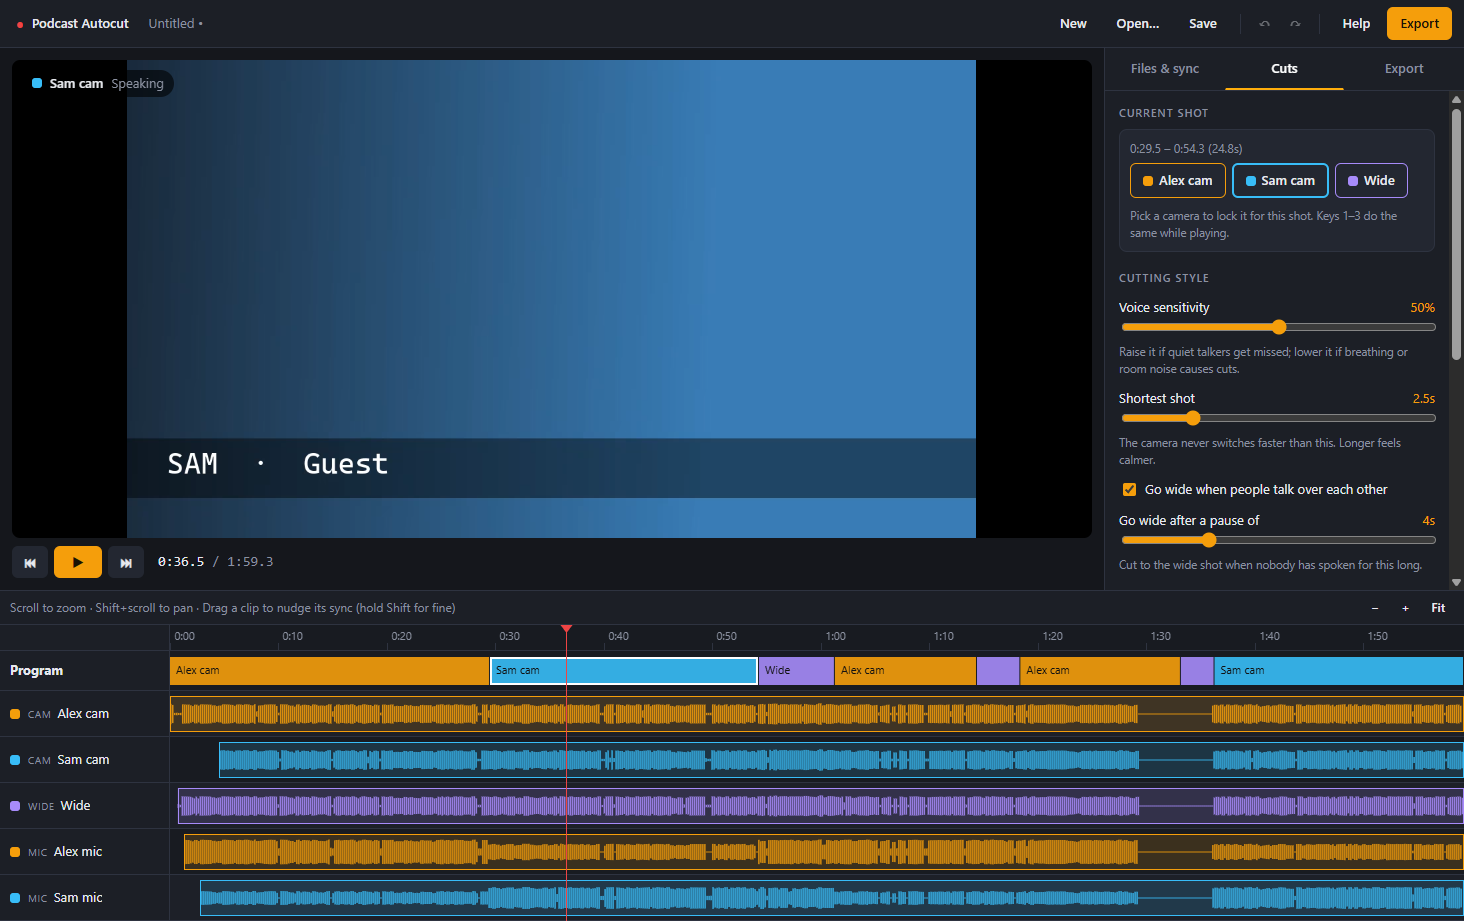
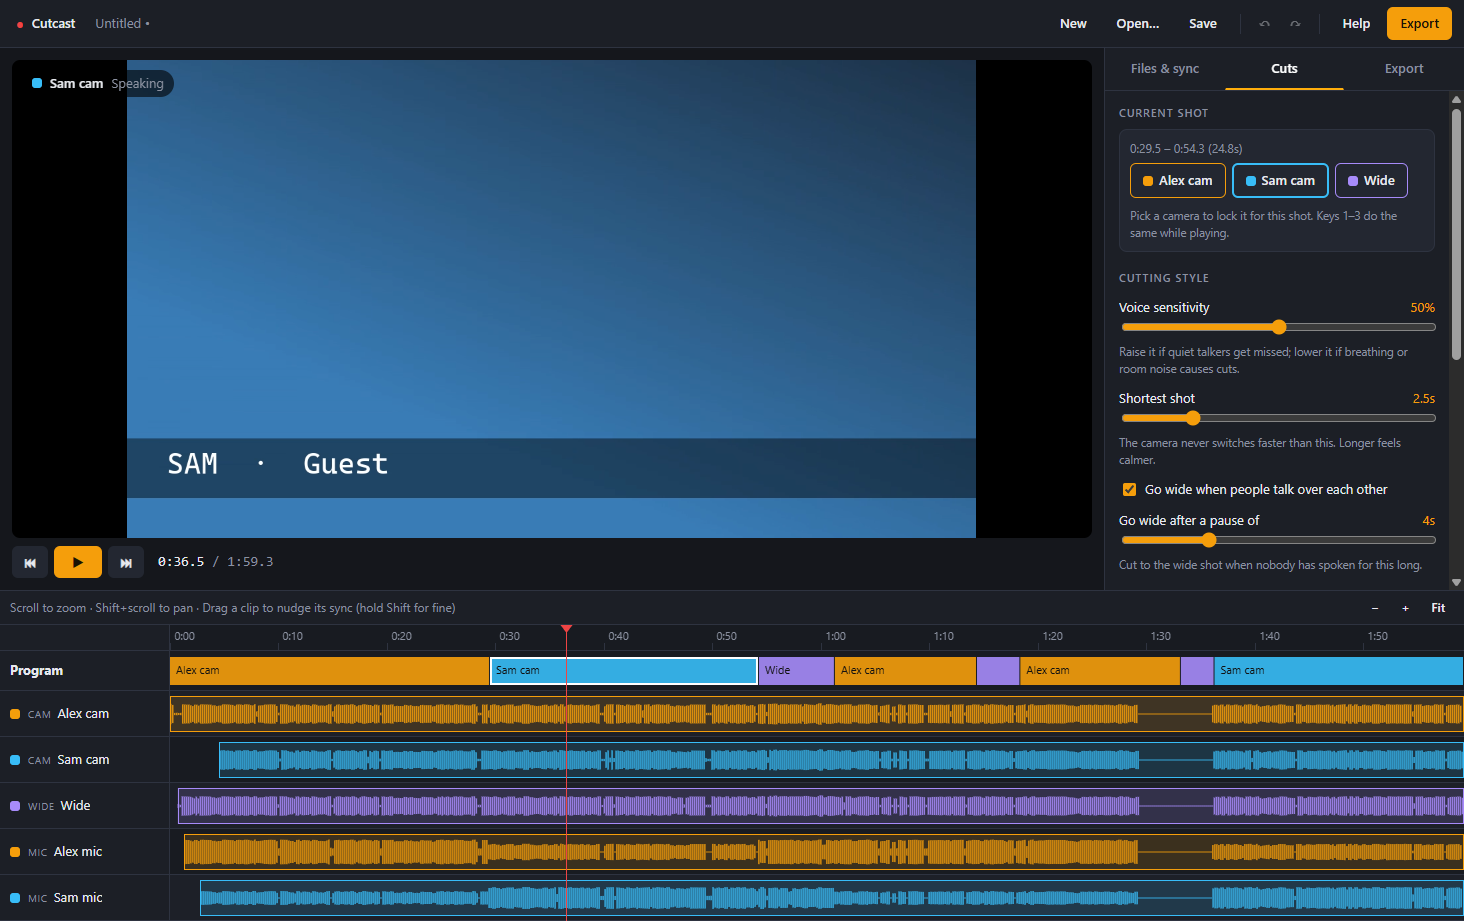
Rebrand to Cutcast (v0.3.0)
Rename the app, installer, window title, project extension (.cutcast),
app ID and repository links from Podcast Autocut to Cutcast.

Changed region(s): [[0.0615, 0.0608, 0.3996, 0.608], [0.3381, 0.0608, 0.6762, 0.4864], [0.0307, 0.0, 0.123, 0.0304]]

diff --git a/electron/main.ts b/electron/main.ts
@@ -8,7 +8,7 @@ import { ExportJob } from './exporter';
 import { analyzeMedia, detectEncoders } from './media';
 
 const MEDIA_EXTENSIONS = ['mp4', 'mov', 'mkv', 'webm', 'm4v', 'avi', 'mp3', 'wav', 'm4a', 'aac', 'flac', 'ogg', 'opus', 'aif', 'aiff'];
-const PROJECT_EXTENSION = 'podcut';
+const PROJECT_EXTENSION = 'cutcast';
 
 const MIME_TYPES: Record<string, string> = {
   '.mp4': 'video/mp4',
@@ -43,7 +43,7 @@ function createWindow() {
     minWidth: 1100,
     minHeight: 700,
     backgroundColor: '#15171c',
-    title: 'Podcast Autocut',
+    title: 'Cutcast',
     autoHideMenuBar: true,
     webPreferences: {
       preload: path.join(__dirname, 'preload.js'),
@@ -131,7 +131,7 @@ function registerIpc() {
   ipcMain.handle('project:open', async () => {
     const result = await dialog.showOpenDialog(mainWindow!, {
       properties: ['openFile'],
-      filters: [{ name: 'Podcast Autocut project', extensions: [PROJECT_EXTENSION] }]
+      filters: [{ name: 'Cutcast project', extensions: [PROJECT_EXTENSION] }]
     });
     if (result.canceled || !result.filePaths[0]) {
       return null;
@@ -145,7 +145,7 @@ function registerIpc() {
     if (!target) {
       const result = await dialog.showSaveDialog(mainWindow!, {
         defaultPath: `My podcast.${PROJECT_EXTENSION}`,
-        filters: [{ name: 'Podcast Autocut project', extensions: [PROJECT_EXTENSION] }]
+        filters: [{ name: 'Cutcast project', extensions: [PROJECT_EXTENSION] }]
       });
       if (result.canceled || !result.filePath) {
         return null;

diff --git a/src/renderer/App.tsx b/src/renderer/App.tsx
@@ -162,7 +162,7 @@ export default function App() {
 
   useEffect(() => {
     const name = projectPath ? stripExtension(fileName(projectPath)) : 'Untitled';
-    document.title = `${name}${dirty ? ' •' : ''} · Podcast Autocut`;
+    document.title = `${name}${dirty ? ' •' : ''} · Cutcast`;
   }, [projectPath, dirty]);
 
   const save = useCallback(async (saveAs = false) => {
@@ -333,7 +333,7 @@ export default function App() {
     event.preventDefault();
     setDragging(false);
     const files = Array.from(event.dataTransfer.files);
-    const projectFile = files.find((file) => file.name.toLowerCase().endsWith('.podcut'));
+    const projectFile = files.find((file) => file.name.toLowerCase().endsWith('.cutcast'));
     if (projectFile) {
       showToast('Use Open to load a project file.');
       return;
@@ -359,7 +359,7 @@ export default function App() {
     >
       <header className="topbar">
         <div className="brand">
-          <span className="logo">●</span> Podcast Autocut
+          <span className="logo">●</span> Cutcast
           <span className="project-name">
             {projectPath ? stripExtension(fileName(projectPath)) : 'Untitled'}
             {dirty ? ' •' : ''}

diff --git a/electron/exporter.ts b/electron/exporter.ts
@@ -153,7 +153,7 @@ export class ExportJob {
       throw new Error('Nothing to export. Add a camera and make sure the export range isn’t empty.');
     }
 
-    const tempDir = await fs.mkdtemp(path.join(os.tmpdir(), 'podcast-autocut-'));
+    const tempDir = await fs.mkdtemp(path.join(os.tmpdir(), 'cutcast-'));
     try {
       await this.renderVideo(segments, tempDir);
 

diff --git a/index.html b/index.html
@@ -3,7 +3,7 @@
   <head>
     <meta charset="UTF-8" />
     <meta name="viewport" content="width=device-width, initial-scale=1.0" />
-    <title>Podcast Autocut</title>
+    <title>Cutcast</title>
   </head>
   <body>
     <div id="root"></div>

diff --git a/README.md b/README.md
@@ -1,30 +1,30 @@
 <div align="center">
 
-<img src="docs/logo.png" width="96" alt="Podcast Autocut logo" />
+<img src="docs/logo.png" width="96" alt="Cutcast logo" />
 
-# Podcast Autocut
+# Cutcast
 
 **Drop in your podcast's camera and mic files. Get back an edited multicam video.**
 
-Podcast Autocut lines up every recording by its sound, cuts to whoever is talking, and exports one finished MP4
+Cutcast lines up every recording by its sound, cuts to whoever is talking, and exports one finished MP4
 with every microphone mixed underneath. It runs entirely on your own computer.
 
-[![Download](https://img.shields.io/github/v/release/BoazCohenJ/Podcast_Autocut?label=download&color=f59e0b)](https://github.com/BoazCohenJ/Podcast_Autocut/releases/latest)
-[![Tests](https://github.com/BoazCohenJ/Podcast_Autocut/actions/workflows/ci.yml/badge.svg)](https://github.com/BoazCohenJ/Podcast_Autocut/actions/workflows/ci.yml)
+[![Download](https://img.shields.io/github/v/release/BoazCohenJ/Cutcast?label=download&color=f59e0b)](https://github.com/BoazCohenJ/Cutcast/releases/latest)
+[![Tests](https://github.com/BoazCohenJ/Cutcast/actions/workflows/ci.yml/badge.svg)](https://github.com/BoazCohenJ/Cutcast/actions/workflows/ci.yml)
 ![Platform](https://img.shields.io/badge/platform-Windows%2010%20%2F%2011-38bdf8)
 
-<img src="docs/screenshot.png" alt="Podcast Autocut: preview, cut settings and timeline" width="900" />
+<img src="docs/screenshot.png" alt="Cutcast: preview, cut settings and timeline" width="900" />
 
 </div>
 
 ## Download
 
-Get the latest version from the **[Releases page](https://github.com/BoazCohenJ/Podcast_Autocut/releases/latest)**:
+Get the latest version from the **[Releases page](https://github.com/BoazCohenJ/Cutcast/releases/latest)**:
 
 | File | What it is |
 | --- | --- |
-| `Podcast.Autocut.Setup.x.y.z.exe` | Installer. Adds Start menu and desktop shortcuts. |
-| `Podcast.Autocut.x.y.z.exe` | Portable. Nothing to install; just run it. |
+| `Cutcast.Setup.x.y.z.exe` | Installer. Adds Start menu and desktop shortcuts. |
+| `Cutcast.x.y.z.exe` | Portable. Nothing to install; just run it. |
 
 > Windows may show a *SmartScreen* warning because the app isn't code-signed yet. Click **More info → Run anyway**.
 
@@ -44,7 +44,7 @@ Get the latest version from the **[Releases page](https://github.com/BoazCohenJ/
   podcast standard (−16 LUFS).
 - **Fast, reliable export.** Frame-accurate cuts with a progress bar and cancel button, plus NVIDIA, Intel or AMD
   hardware encoding when your computer supports it.
-- **Projects and safety nets.** `.podcut` project files, undo/redo, and automatic autosave that restores your last
+- **Projects and safety nets.** `.cutcast` project files, undo/redo, and automatic autosave that restores your last
   session.
 
 ## How to use it
